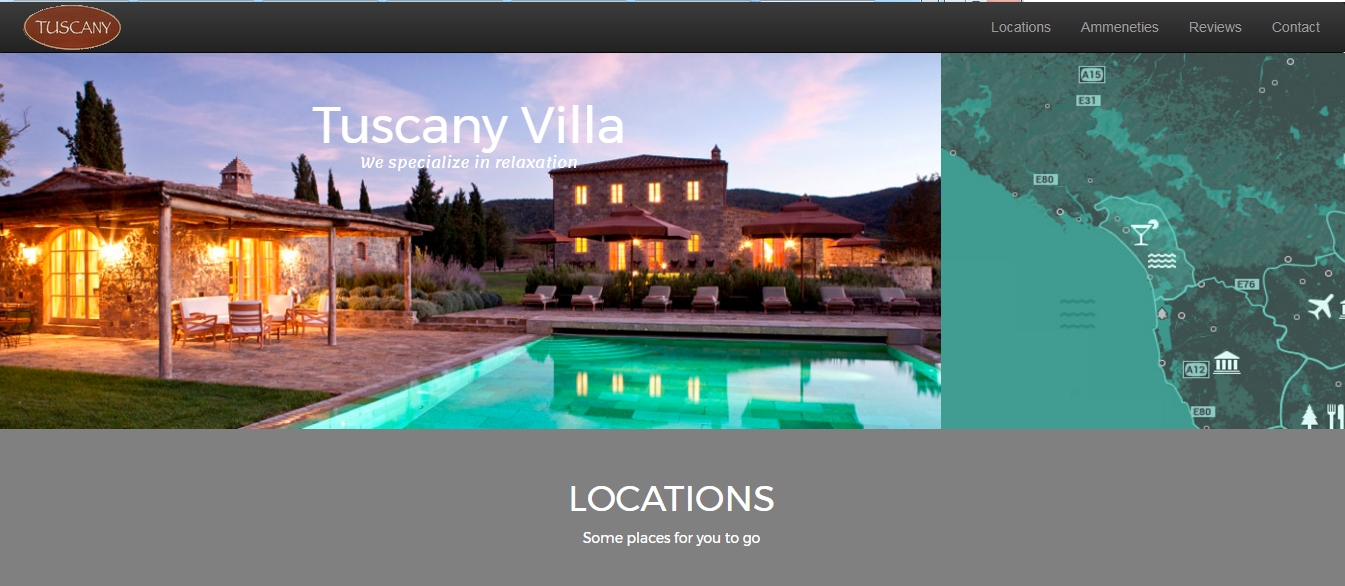
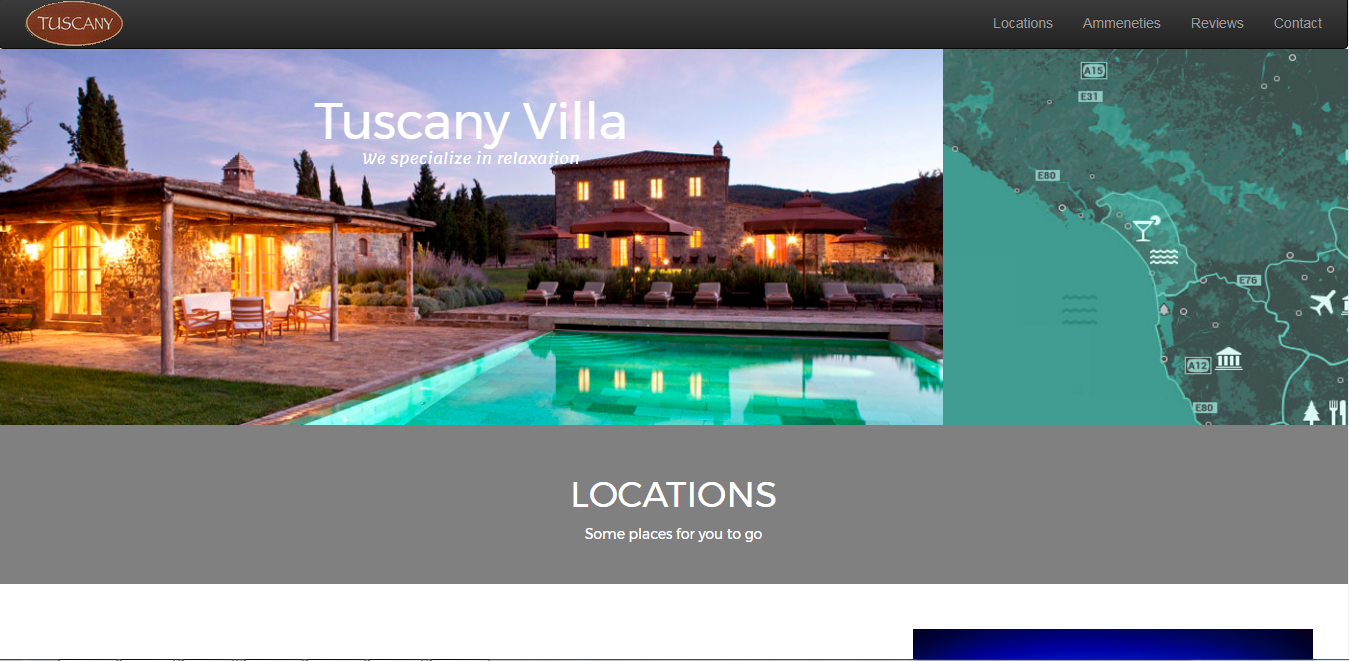
did more editing

diff --git a/index.html b/index.html
@@ -40,7 +40,7 @@
         <ul class="sidebar-nav">
             <a id="menu-close" href="#" class="btn btn-light btn-lg pull-right toggle"><i class="fa fa-times"></i></a>
             <li class="sidebar-brand">
-                <a href="#top" onclick=$("#menu-close").click();>Start Bootstrap</a>
+                <a href="#top" onclick=$("#menu-close").click();>Paige Miller</a>
             </li>
             <li>
                 <a href="#top" onclick=$("#menu-close").click();>Home</a>
@@ -49,13 +49,10 @@
                 <a href="#about" onclick=$("#menu-close").click();>About</a>
             </li>
             <li>
-                <a href="#services" onclick=$("#menu-close").click();>hello</a>
+                <a href="#portfolio" onclick=$("#menu-close").click();>Projects</a>
             </li>
             <li>
-                <a href="#portfolio" onclick=$("#menu-close").click();>Portfolio</a>
-            </li>
-            <li>
-                <a href="#contact" onclick=$("#menu-close").click();>Contact</a>
+                <a href="#footer" onclick=$("#menu-close").click();>Contact</a>
             </li>
         </ul>
     </nav>
@@ -65,25 +62,28 @@
         <div class="text-vertical-center">
             <h1>Paige Miller</h1>
             <br />
-            <h3>Software Developer</h3>
+            <br />
+            <h2>Software Developer</h2>
             <br>
         </div>
     </header>
 
     <!-- About -->
-    <section id="about" class="about">
+    <section id="about" class="about" style="background-color:gray;">
         <div class="container">
             <div class="row">
-                <div class="col-lg-12 text-center">
+                <div class="col-md-4">
+                    <img src="images/rsz_imageedit_2_4713095664.gif" />
+                </div>
+                <div class="col-lg-8 text-center">
                     <h2>About Me</h2>
-                    <p class="lead">This theme features some wonderful photography courtesy of <a target="_blank" href="http://join.deathtothestockphoto.com/">Death to the Stock Photo</a>.</p>
+                    <p class="lead">Hello, my name is Paige. I am a Software Developer, residing in Canton, Ohio. I've been in retail for the past 4 years, up until my store closed. At that point in time, I decided I needed to get a start on my career. I've always loved designing, which in my retail experience would have been the visualizing. My brother-in-law is a Database Administrator, and for years he would show me the websites he could create. I always thought what he could was so cool, and he was my entire inspiration in my interst in developing. I was so excited to find out about this amazing oppurtunity to become a junior developer through WeCanCodeIt's program. I have acquired so many skills I never thought possible to learn in such a short period. Skills including  C#, .NET, ASP.net, MVC, HTML, JavaScript, JQuery, Bootstrap, and CSS.
                 </div>
             </div>
             <!-- /.row -->
         </div>
         <!-- /.container -->
     </section>
-
 
     <!-- Portfolio -->
     <section id="portfolio" class="portfolio">
@@ -93,71 +93,172 @@
                     <h2>Web Developing</h2>
                     <hr class="small">
                     <div class="row">
-                        <div class="col-md-6">
-                            <div class="portfolio-item">
-                                <a href="#">
-                                    <img class="img-portfolio img-responsive" src="images/TuscanyVilla.png" style="width:457px; height:228px; border:double;">
-                                </a>
-                                <h1>Tuscany Villa</h1>
+
+                        <div id="carousel-example-generic" class="carousel slide" data-ride="carousel">
+                            <!-- Indicators -->
+                            <ol class="carousel-indicators">
+                                <li data-target="#carousel-example-generic" data-slide-to="0" class="active"></li>
+                                <li data-target="#carousel-example-generic" data-slide-to="1"></li>
+                                <li data-target="#carousel-example-generic" data-slide-to="2"></li>
+                            </ol>
+
+                            <!-- Wrapper for slides -->
+                            <div class="carousel-inner" role="listbox">
+                                <div class="item active">
+                                    <img class="img-portfolio img-responsive" src="images/TuscanyVilla.png" style="border:double;">
+                                    <div class="carousel-caption">
+                                        <h1>Tuscany Villa</h1>
+                                        <ul class="list-inline">
+                                            <li>
+                                                <a href="https://github.com/PMiller97/TuscanyVilla"><i class="fa fa-github fa-fw fa-3x"></i></a>
+                                            </li>
+                                        </ul>
+                                    </div>
+                                </div>
+                                <div class="item">
+                                    <img class="img-portfolio img-responsive" src="images/Wardrobe.png" style="border:double;" />
+                                    <div class="carousel-caption">
+                                        <h1>Wardrobe MVC</h1>
+                                        <ul class="list-inline">
+                                            <li>
+                                                <a href="https://github.com/PMiller97/WardrobeMVC2"><i class="fa fa-github fa-fw fa-3x"></i></a>
+                                            </li>
+                                        </ul>
+                                    </div>
+                                </div>
+                                ...
                             </div>
-                        </div>
-                        <div class="col-md-6">
-                            <div class="portfolio-item">
-                                <a href="#">
-                                    <img class="img-portfolio img-responsive" src="images/Wardrobe.png" style="border:double;">
-                                </a>
-                                <h1>Wardrobe MVC</h1>
-                            </div>
+
+                            <!-- Controls -->
+                            <a class="left carousel-control" href="#carousel-example-generic" role="button" data-slide="prev">
+                                <span class="glyphicon glyphicon-chevron-left" aria-hidden="true"></span>
+                                <span class="sr-only">Previous</span>
+                            </a>
+                            <a class="right carousel-control" href="#carousel-example-generic" role="button" data-slide="next">
+                                <span class="glyphicon glyphicon-chevron-right" aria-hidden="true"></span>
+                                <span class="sr-only">Next</span>
+                            </a>
                         </div>
                     </div>
+                </div>
+                <!--<div class="col-md-6">
+                <div class="portfolio-item">
+                    <a href="#">
+                        <img class="img-portfolio img-responsive" src="images/TuscanyVilla.png" style="width:457px; height:228px; border:double;">
+                    </a>
+                    <h1>Tuscany Villa</h1>
+                    <ul class="list-inline">
+                        <li>
+                            <a href="https://github.com/PMiller97/TuscanyVilla"><i class="fa fa-github fa-fw fa-3x"></i></a>
+                        </li>
+                    </ul>
+                </div>
+            </div>
+            <div class="col-md-6">
+                <div class="portfolio-item">
+                    <a href="#">
+                        <img class="img-portfolio img-responsive" src="images/Wardrobe.png" style="border:double;">
+                    </a>
+                    <h1>Wardrobe MVC</h1>
+                    <ul class="list-inline">
+                        <li>
+                            <a href="https://github.com/PMiller97/WardrobeMVC2"><i class="fa fa-github fa-fw fa-3x"></i></a>
+                        </li>
+                    </ul>
+                </div>
+            </div>
+        </div>-->
+                <div class="col-lg-10 col-lg-offset-1 text-center">
+                    <h2>Software Developing</h2>
+                    <hr class="small">
+                    <div class="row">
+                        <div id="carousel-example-generic" class="carousel slide" data-ride="carousel">
+                            <!-- Indicators -->
+                            <ol class="carousel-indicators">
+                                <li data-target="#carousel-example-generic" data-slide-to="0" class="active"></li>
+                                <li data-target="#carousel-example-generic" data-slide-to="1"></li>
+                                <li data-target="#carousel-example-generic" data-slide-to="2"></li>
+                            </ol>
 
-                        <div class="col-lg-10 col-lg-offset-1 text-center">
-                            <h2>Software Developing</h2>
-                            <hr class="small">
-                            <div class="row">
-                                <div class="col-md-6">
-                                    <div class="portfolio-item">
-                                        <a href="#">
-                                            <img class="img-portfolio img-responsive" src="images/BankAccount.png" />
-                                        </a>
+                            <!-- Wrapper for slides -->
+                            <div class="carousel-inner" role="listbox">
+                                <div class="item active">
+                                    <img class="img-portfolio img-responsive" src="images/BankAccount.png" />
+                                    <div class="carousel-caption">
                                         <h1>Bank Account</h1>
+                                        <ul class="list-inline">
+                                            <li>
+                                                <a href="https://github.com/PMiller97/BankAccount"><i class="fa fa-github fa-fw fa-3x"></i></a>
+                                            </li>
+                                        </ul>
                                     </div>
                                 </div>
-                                <div class="col-md-6">
-                                    <div class="portfolio-item">
-                                        <a href="#">
-                                            <img class="img-portfolio img-responsive" src="images/LuckyNumbers.png" />
-                                        </a>
+                                <div class="item">
+                                    <img class="img-portfolio img-responsive" src="images/LuckyNumbers.png" />
+                                    <div class="carousel-caption">
                                         <h1>Lucky Numbers</h1>
+                                        <ul class="list-inline">
+                                            <li>
+                                                <a href="https://github.com/PMiller97/LuckyNumbers"><i class="fa fa-github fa-fw fa-3x"></i></a>
+                                            </li>
+                                        </ul>
                                     </div>
+                                </div>
+                                ...
+                            </div>
+
+                            <!-- Controls -->
+                            <a class="left carousel-control" href="#carousel-example-generic" role="button" data-slide="prev">
+                                <span class="glyphicon glyphicon-chevron-left" aria-hidden="true"></span>
+                                <span class="sr-only">Previous</span>
+                            </a>
+                            <a class="right carousel-control" href="#carousel-example-generic" role="button" data-slide="next">
+                                <span class="glyphicon glyphicon-chevron-right" aria-hidden="true"></span>
+                                <span class="sr-only">Next</span>
+                            </a>
+                        </div>
+
+                        <!--<div class="col-md-6">
+                                <div class="portfolio-item">
+                                    <a href="#">
+                                        <img class="img-portfolio img-responsive" src="images/BankAccount.png" />
+                                    </a>
+                                    <h1>Bank Account</h1>
+                                    <ul class="list-inline">
+                                        <li>
+                                            <a href="https://github.com/PMiller97/BankAccount"><i class="fa fa-github fa-fw fa-3x"></i></a>
+                                        </li>
+                                    </ul>
                                 </div>
                             </div>
-                    <!-- /.row (nested) -->
-                    <a href="#" class="btn btn-dark">View More Items</a>
+                            <div class="col-md-6">
+                                <div class="portfolio-item">
+                                    <a href="#">
+                                        <img class="img-portfolio img-responsive" src="images/LuckyNumbers.png" />
+                                    </a>
+                                    <h1>Lucky Numbers</h1>
+                                    <ul class="list-inline">
+                                        <li>
+                                            <a href="https://github.com/PMiller97/LuckyNumbers"><i class="fa fa-github fa-fw fa-3x"></i></a>
+                                        </li>
+                                    </ul>
+                                </div>
+                            </div>
+                        </div>
+
+                <!-- /.row (nested) -->
+                        <a href="#" class="btn btn-dark">View More Items</a>
+                    </div>
+                    <!-- /.col-lg-10 -->
                 </div>
-                <!-- /.col-lg-10 -->
+                <!-- /.row -->
             </div>
-            <!-- /.row -->
-        </div>
         <!-- /.container -->
     </section>
 
-    <!-- Call to Action -->
-    <aside class="call-to-action bg-primary">
-            <div class="container">
-            <div class="row">
-                <div class="col-lg-12 text-center">
-                    <h3>The buttons below are impossible to resist.</h3>
-                    <a href="#" class="btn btn-lg btn-light">Click Me!</a>
-                    <a href="#" class="btn btn-lg btn-dark">Look at Me!</a>
-                </div>
-            </div>
-        </div>
-    </aside>
-
     <!-- Footer -->
     <footer>
-        <div class="container">
+        <div class="container" id="footer" style="background-color:gray;">
             <div class="row">
                 <div class="col-lg-10 col-lg-offset-1 text-center">
                     <h4><strong>Paige Miller</strong>

diff --git a/StyleSheet.css b/StyleSheet.css
@@ -1,6 +1,6 @@
 #top {
-    background-image: url('images/backgroundPM.jpg');
-    background-color:rgba(0,0,0,0.7)
+    background-image: url('images/portfolioBackground.jpg');
+    background-color: rgba(0,0,0,0.7);
 }
 /*!
  * Start Bootstrap - Stylish Portfolio (http://startbootstrap.com/)
@@ -26,13 +26,14 @@ body {
     display: table-cell;
     text-align: center;
     vertical-align: middle;
-    color:red;
+    color:black;
 
 .text-vertical-center h1 {
     margin: 0;
     padding: 0;
     font-size: 4.5em;
     font-weight: 700;
+    color:black;
 }
 
 /* Custom Button Styles */
